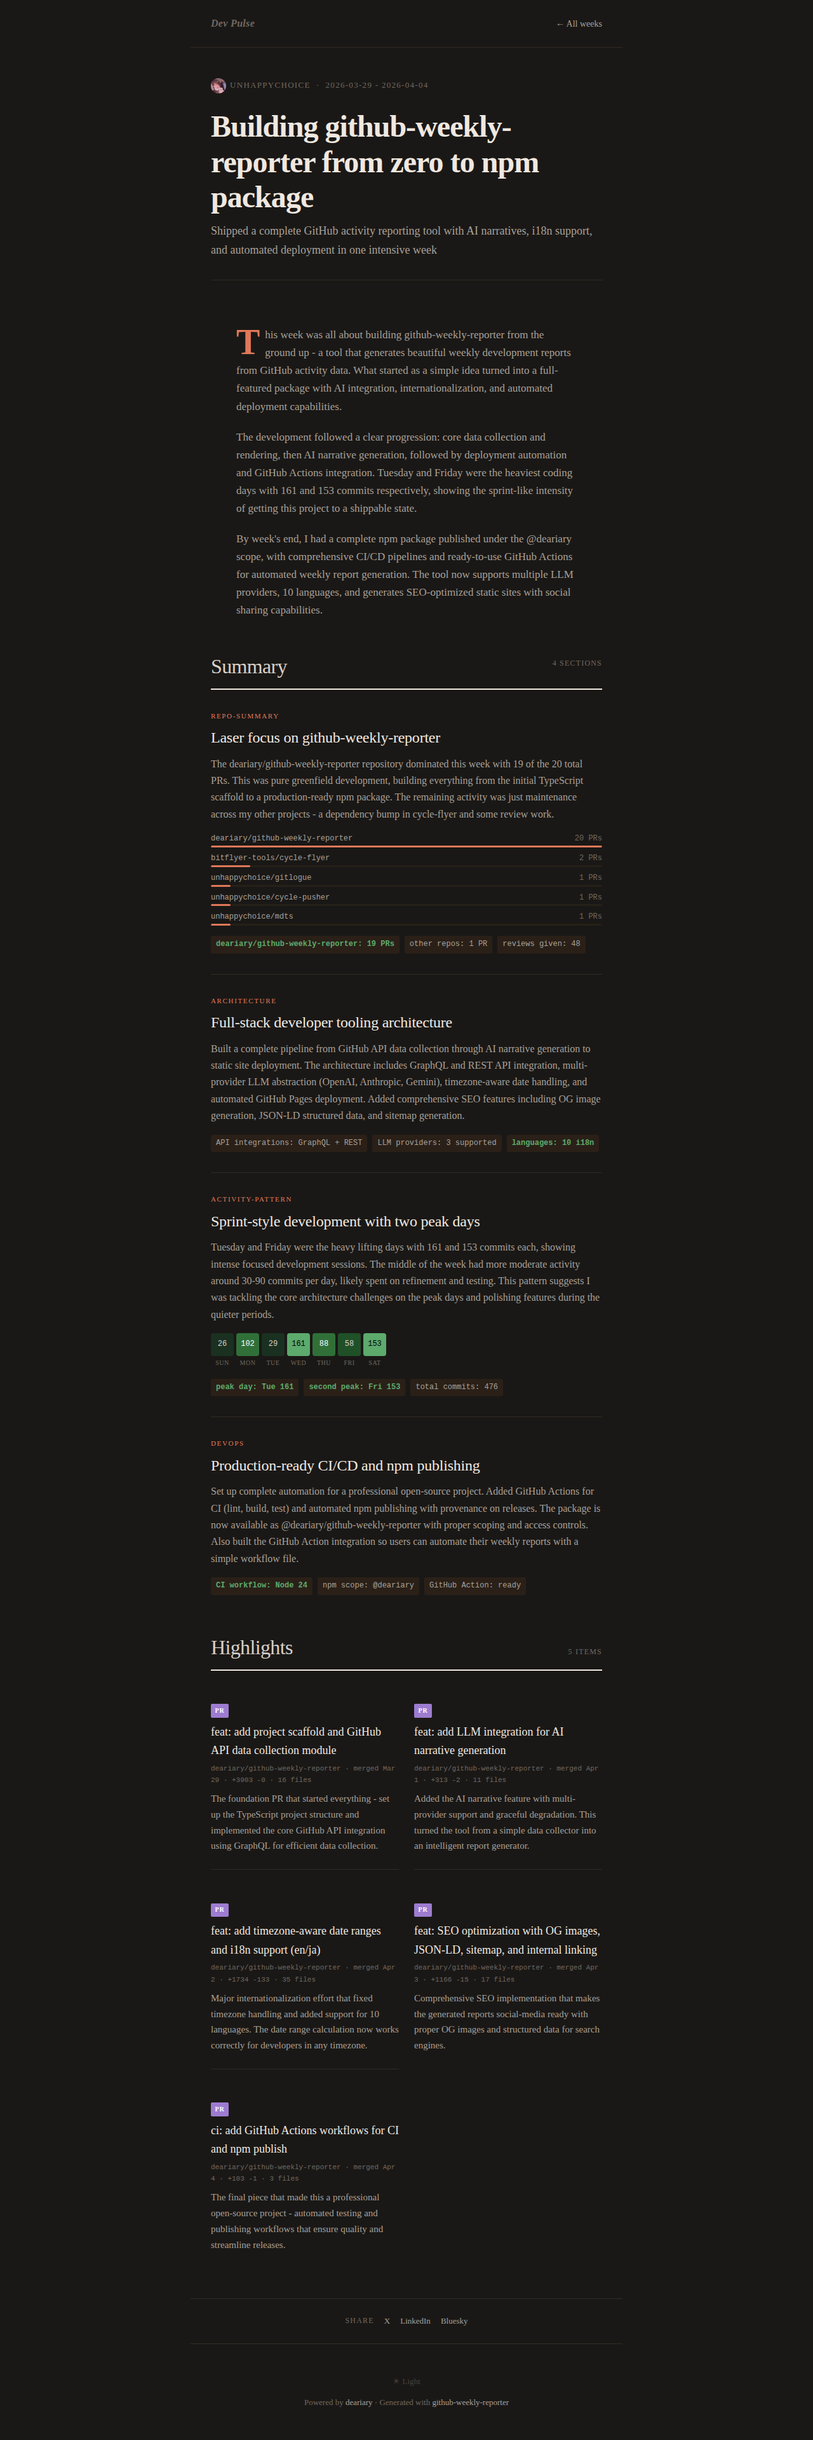
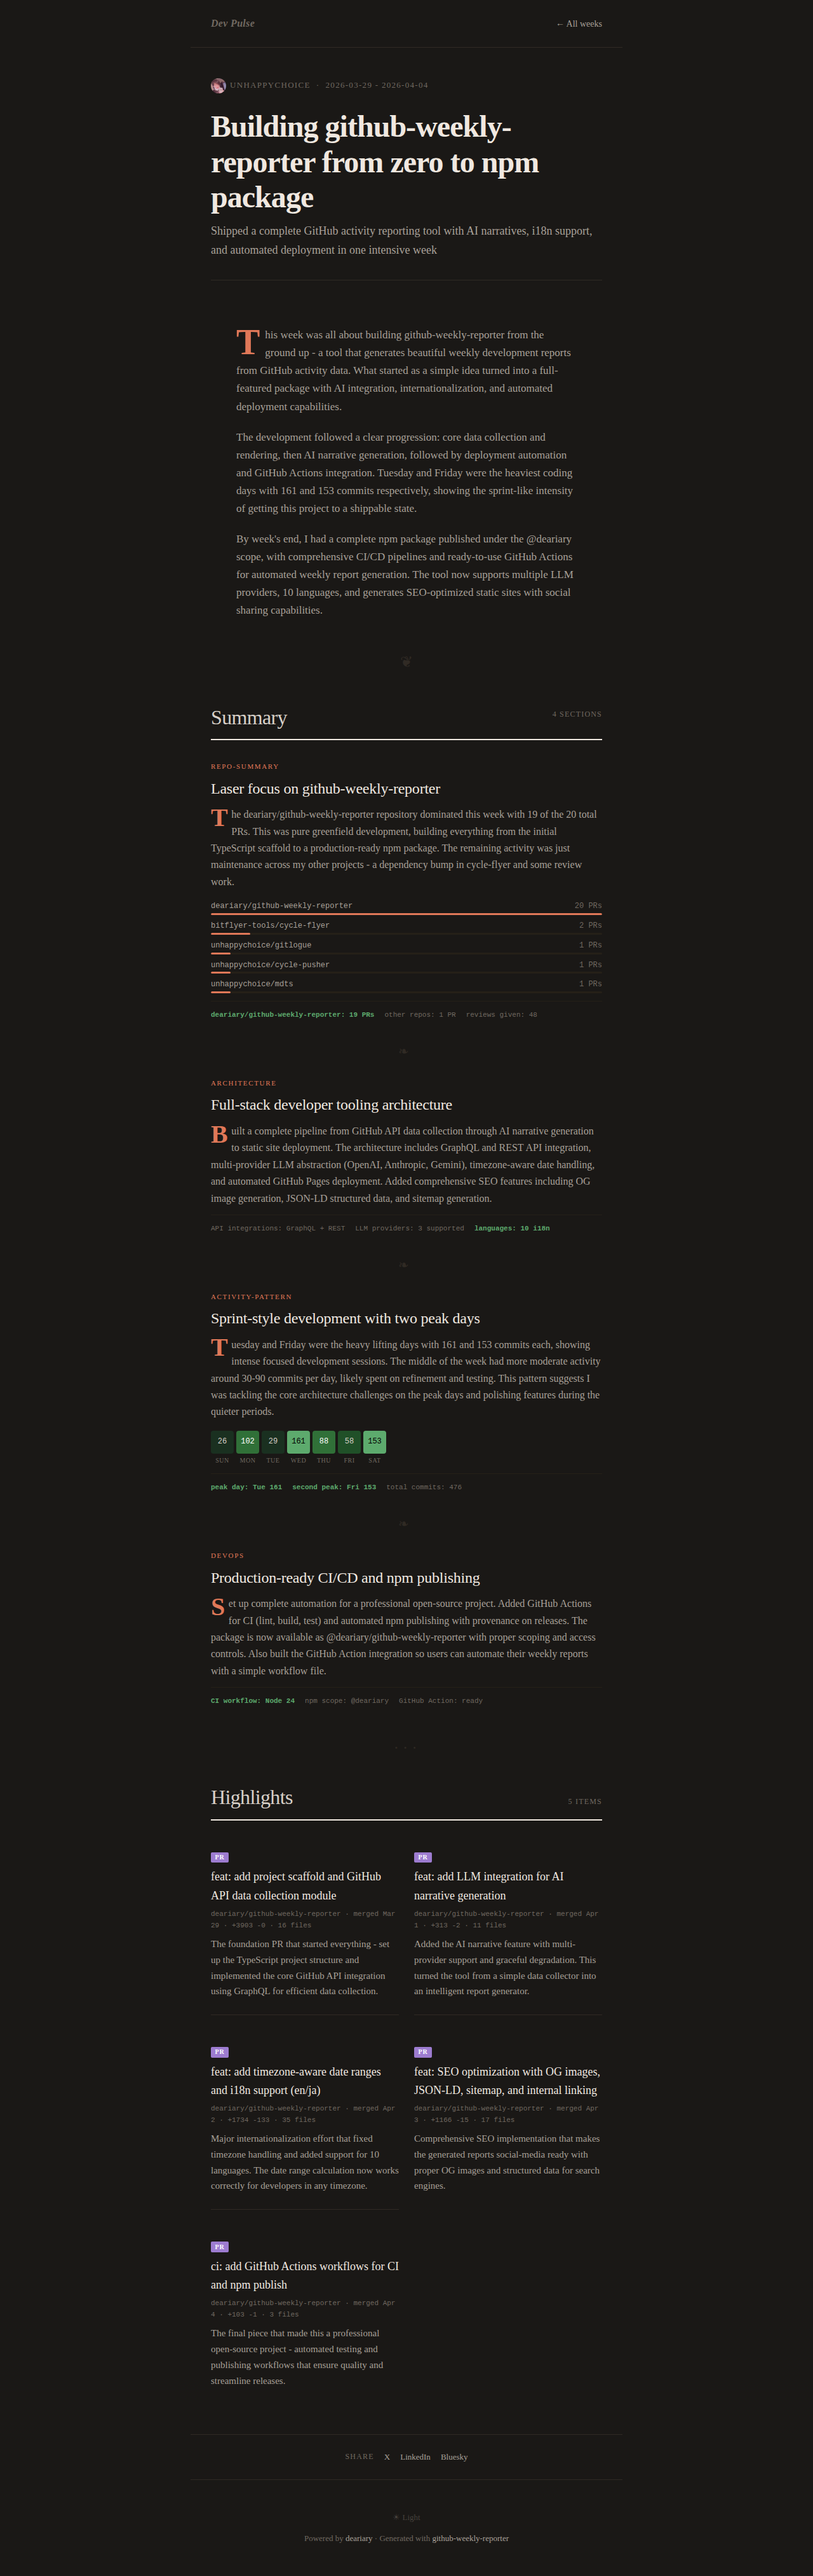
feat: polish editorial narrative accents and badges

Changed region(s): [[0.25, 0.031, 0.75, 0.9302], [0.5, 0.6821, 0.75, 0.8682]]

diff --git a/src/renderer/themes/editorial/styles.ts b/src/renderer/themes/editorial/styles.ts
@@ -226,6 +226,14 @@ export const buildCSS = (language: Language = "en"): string => {
       max-width: 680px; margin: 0 auto 3.5rem;
       padding: 0 2rem;
     }
+    .section-group::before {
+      content: "\\2766";
+      display: block;
+      text-align: center;
+      font-size: 1.5rem;
+      color: var(--e-border);
+      margin-bottom: 2.5rem;
+    }
     .section-group-header {
       margin-bottom: 2rem;
       border-bottom: 2px solid var(--e-heading);
@@ -242,13 +250,22 @@ export const buildCSS = (language: Language = "en"): string => {
       float: right; margin-top: 0.75rem;
     }
 
+    /* ORNAMENTAL DIVIDER */
+    .section-summary + .section-summary::before {
+      content: "\\2767";
+      display: block;
+      text-align: center;
+      font-size: 1.25rem;
+      color: var(--e-border);
+      margin: -0.5rem 0 1.5rem;
+      letter-spacing: 0.5em;
+    }
+
     /* SUMMARY */
     .section-summary {
-      margin-bottom: 2rem;
-      padding-bottom: 2rem;
-      border-bottom: 1px solid var(--e-border);
+      margin-bottom: 2.5rem;
+      position: relative;
     }
-    .section-summary:last-child { border-bottom: none; padding-bottom: 0; }
     .section-type {
       font-size: 0.6875rem; color: var(--e-accent);
       text-transform: uppercase; letter-spacing: 0.15em;
@@ -264,16 +281,30 @@ export const buildCSS = (language: Language = "en"): string => {
     .section-body {
       color: var(--e-text-secondary);
     }
+    .section-body::first-letter {
+      font-family: ${heading};
+      float: left;
+      font-size: 2.5rem;
+      line-height: 0.8;
+      font-weight: 700;
+      color: var(--e-drop-cap);
+      padding-right: 0.35rem;
+      padding-top: 0.1rem;
+    }
 
-    /* CHIPS */
+    /* CHIPS as margin notes */
     .data-chips {
-      display: flex; flex-wrap: wrap; gap: 0.5rem; margin-top: 1rem;
+      font-family: ${mono}; font-size: 0.6875rem;
+      color: var(--e-text-tertiary);
+      margin-top: 0.75rem;
+      padding-top: 0.75rem;
+      border-top: 1px solid var(--e-border-subtle);
+      display: flex; flex-wrap: wrap; gap: 0.25rem 1rem;
     }
     .chip {
-      font-family: ${mono}; font-size: 0.75rem;
-      padding: 0.25rem 0.5rem; border-radius: 3px;
-      background: var(--e-accent-light);
-      color: var(--e-text-secondary);
+      padding: 0; border-radius: 0;
+      background: none;
+      color: var(--e-text-tertiary);
     }
     .chip-green { color: var(--e-green); font-weight: 600; }
     .chip-red { color: var(--e-red); font-weight: 600; }
@@ -314,6 +345,15 @@ export const buildCSS = (language: Language = "en"): string => {
       max-width: 680px; margin: 0 auto 3rem;
       padding: 0 2rem;
     }
+    .highlight-section::before {
+      content: "\\2022  \\2022  \\2022";
+      display: block;
+      text-align: center;
+      font-size: 0.75rem;
+      color: var(--e-border);
+      margin-bottom: 2.5rem;
+      letter-spacing: 0.3em;
+    }
     .highlight-header {
       margin-bottom: 1.5rem;
       border-bottom: 2px solid var(--e-heading);
@@ -342,8 +382,10 @@ export const buildCSS = (language: Language = "en"): string => {
     .highlight-badge {
       font-size: 0.625rem; font-weight: 600;
       text-transform: uppercase; letter-spacing: 0.1em;
-      display: inline-block; padding: 0.15rem 0.4rem;
+      display: inline-flex; align-items: center;
+      padding: 0.2rem 0.4rem; line-height: 1;
       border-radius: 2px; margin-bottom: 0.5rem; color: #fff;
+      vertical-align: middle;
     }
     .highlight-pr { background: var(--e-badge-pr); }
     .highlight-release { background: var(--e-badge-release); }
